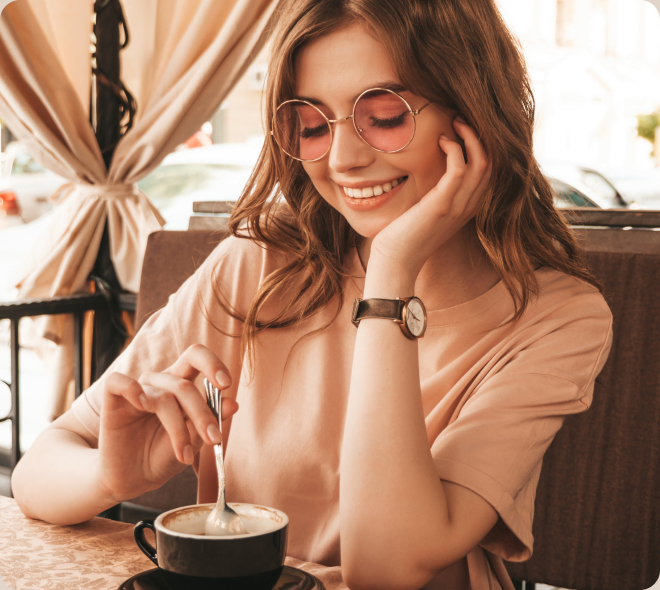
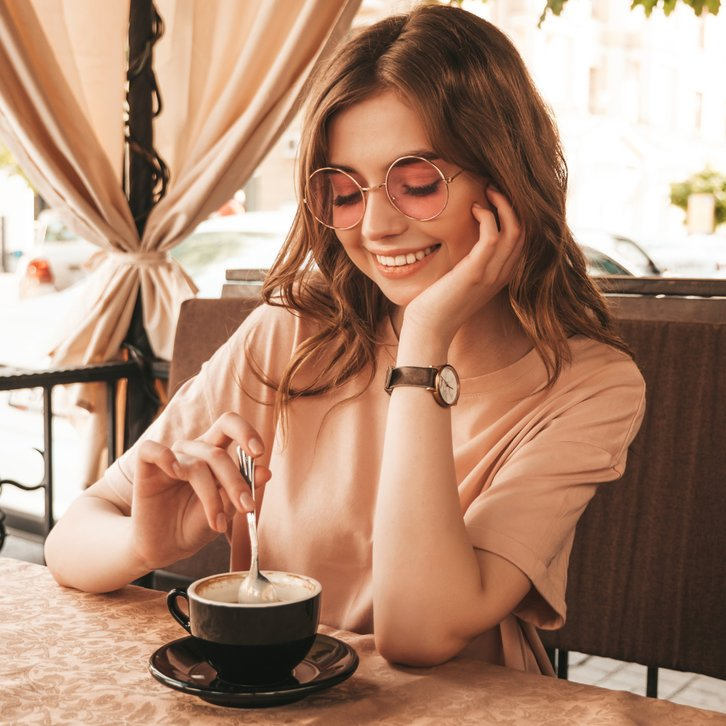
fix: match the home page sections to the design pixel by pixel

diff --git a/src/styles/_header.scss b/src/styles/_header.scss
@@ -52,6 +52,10 @@
 
 .nav__link {
   position: relative;
+  display: block;
+  // the design's menu item is 24px of text and 4px of room for the underline,
+  // centred as a whole, so the text sits 2px above the header's centre line
+  padding-bottom: 4px;
   font: 600 1rem/1.5 'Inter', sans-serif;
   color: var(--color-text-primary);
   text-decoration: none;
@@ -62,7 +66,7 @@
     content: '';
     position: absolute;
     left: 0;
-    bottom: -4px;
+    bottom: 0;
     width: 0;
     height: 1px;
     background-color: currentColor;
@@ -87,8 +91,10 @@
 .menu-link {
   position: relative;
   display: flex;
-  align-items: center;
+  // the cup sits at the top of the text line in the design, not centred on it
+  align-items: flex-start;
   gap: 8px;
+  padding-bottom: 4px;
   font: 600 1rem/1.5 'Inter', sans-serif;
   color: var(--color-text-primary);
   text-decoration: none;
@@ -98,7 +104,7 @@
     content: '';
     position: absolute;
     left: 0;
-    bottom: -4px;
+    bottom: 0;
     width: 0;
     height: 1px;
     background-color: currentColor;
@@ -165,7 +171,7 @@
   align-items: center;
   justify-content: center;
   // the two bars sit 8px apart from centre to centre
-  gap: 6.5px;
+  gap: 6px;
   width: 44px;
   height: 44px;
   padding: 0;
@@ -178,9 +184,11 @@
   span {
     display: block;
     width: 16px;
-    height: 1.5px;
+    // Chrome snaps a 1.5px bar to a faint 1px line; 2px at 75% gives the same
+    // ink as the design's 1.5px stroke
+    height: 2px;
     border-radius: 1px;
-    background-color: currentColor;
+    background-color: color-mix(in srgb, currentColor 75%, transparent);
   }
 }
 
@@ -214,11 +222,17 @@
   }
 
   .header__actions {
-    gap: 12px;
+    gap: 24px;
   }
 
   .theme-toggle__btn {
     width: 44px;
     height: 44px;
+  }
+}
+
+@media (max-width: $breakpoint-small) {
+  .header__actions {
+    gap: 12px;
   }
 }

diff --git a/src/styles/_about.scss b/src/styles/_about.scss
@@ -9,6 +9,9 @@
   font-weight: 600;
   font-size: $heading-2;
   line-height: 1.25;
+  // Inter 4 from Google Fonts sets this line about 1% wider than the Inter 3
+  // the design uses, enough to push "relax," onto the next line at 1440
+  letter-spacing: -0.005em;
   margin: 0 0 40px;
 
   em {
@@ -29,26 +32,33 @@
   flex: 1;
 }
 
+// the design keeps every photo at 726px square, centred in its box, so a
+// narrower or shorter box shows less of it instead of scaling it down
 .about__image {
-  flex: 430;
+  position: relative;
+  height: 430px;
   overflow: hidden;
-  border-radius: 16px;
+  border-radius: 20px;
 
   img {
-    width: 100%;
-    height: 100%;
-    object-fit: cover;
+    position: absolute;
+    top: 50%;
+    left: 50%;
+    width: 726px;
+    height: 726px;
+    max-width: none;
     display: block;
+    transform: translate(-50%, -50%);
     transition: transform 0.4s ease;
   }
 
   &:hover img {
-    transform: scale(1.1);
+    transform: translate(-50%, -50%) scale(1.1);
   }
 }
 
 .about__image--tall {
-  flex: 590;
+  height: 590px;
 }
 
 @media (max-width: $breakpoint-tablet) {
@@ -60,10 +70,7 @@
     display: none;
   }
 
-  // one image per row, at the fixed height the design gives it
   .about__image--tall {
     display: block;
-    flex: none;
-    height: 590px;
   }
 }

diff --git a/index.html b/index.html
@@ -107,8 +107,8 @@
 
             <ul class="slider__track">
               <li class="slider__slide">
-                <img src="/src/assets/coffee-slider-1.png" alt="S'mores Frappuccino" class="slider__image">
-                <h3 class="slider__name">S'mores Frappuccino</h3>
+                <img src="/src/assets/coffee-slider-1.png" alt="S’mores Frappuccino" class="slider__image">
+                <h3 class="slider__name">S’mores Frappuccino</h3>
                 <p class="slider__description">
                   This new drink takes an espresso and mixes it with brown sugar
                   and cinnamon before being topped with oat milk.
@@ -221,7 +221,7 @@
       <div class="footer__offer">
         <p class="footer__slogan">
           Sip, Savor, Smile.<br>
-          <em>It's coffee time!</em>
+          <em>It’s coffee time!</em>
         </p>
 
         <ul class="socials">

diff --git a/src/styles/_app.scss b/src/styles/_app.scss
@@ -49,7 +49,7 @@
   width: 200px;
   height: 64px;
   padding-inline: 20px;
-  border: 1px solid var(--color-border-primary);
+  border: 1px solid var(--color-border-inverse);
   border-radius: 999px;
   color: var(--color-text-primary);
   text-decoration: none;
@@ -60,19 +60,20 @@
   }
 }
 
+// a 36px icon box with the logo inset inside it, as the design draws it
 .app__icon {
   flex-shrink: 0;
   display: block;
+  width: 36px;
+  height: 36px;
 }
 
 .app__icon--store {
-  width: 20px;
-  height: 24px;
+  padding: 1.8px 4.94px 2.55px 4.65px;
 }
 
 .app__icon--play {
-  width: 20px;
-  height: 22px;
+  padding: 1.8px 2.47px 1.41px 3.18px;
 }
 
 .app__icon--dark {

diff --git a/src/styles/_footer.scss b/src/styles/_footer.scss
@@ -83,13 +83,14 @@
 .contacts-list__link,
 .contacts-list__item {
   display: flex;
-  align-items: center;
+  // the icon sits at the top of the text line in the design
+  align-items: flex-start;
   gap: 8px;
   // the design gives each row 24px of content and 4px of room underneath
   padding-bottom: 4px;
   color: var(--color-text-inverse);
   text-decoration: none;
-  font: 400 1rem/1.5 'Inter', sans-serif;
+  font: 600 1rem/1.5 'Inter', sans-serif;
 }
 
 .contacts-list__icon {

diff --git a/src/styles/_hero.scss b/src/styles/_hero.scss
@@ -15,9 +15,7 @@
   min-height: 644px;
   border-radius: 40px;
   overflow: hidden;
-  background:
-    linear-gradient(90deg, rgba(41, 40, 38, 0.8) 0%, rgba(41, 40, 38, 0.4) 45%, rgba(41, 40, 38, 0) 70%),
-    url('../assets/hero.jpg') center/cover no-repeat;
+  background: url('../assets/hero.jpg') center/cover no-repeat;
   display: flex;
   flex-direction: column;
   justify-content: center;

diff --git a/src/styles/_favorites.scss b/src/styles/_favorites.scss
@@ -108,6 +108,17 @@
   right: 4px;
 }
 
+// the tablet frame puts the controls right on the edges
+@media (max-width: $breakpoint-tablet) {
+  .slider__control--prev {
+    left: 0;
+  }
+
+  .slider__control--next {
+    right: 0;
+  }
+}
+
 .slider__dots {
   display: flex;
   justify-content: center;

diff --git a/catalog.html b/catalog.html
@@ -324,7 +324,7 @@
       <div class="footer__offer">
         <p class="footer__slogan">
           Sip, Savor, Smile.<br>
-          <em>It's coffee time!</em>
+          <em>It’s coffee time!</em>
         </p>
 
         <ul class="socials">
